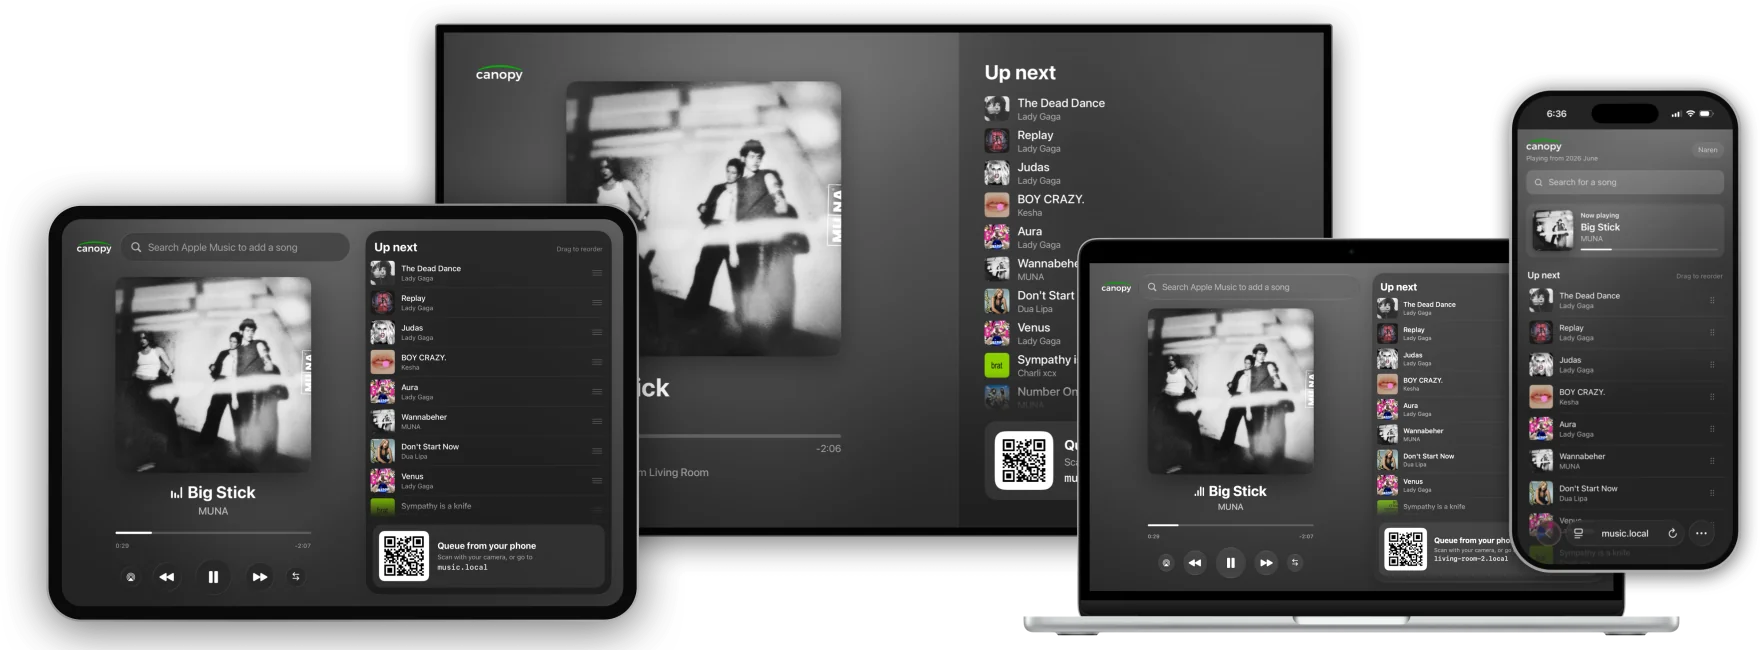
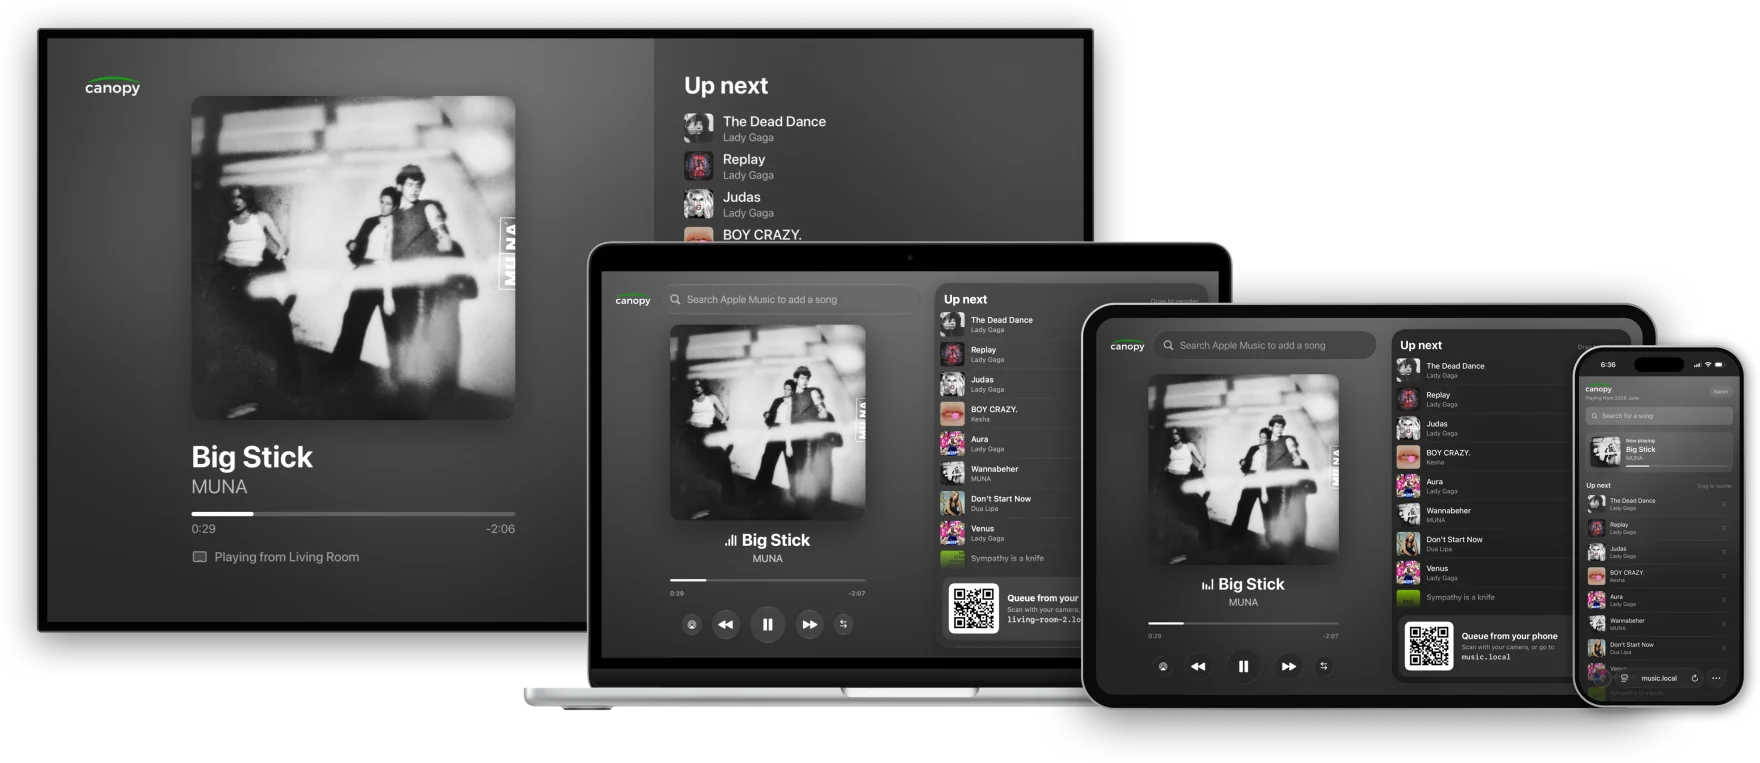
Home page: the cascading devices image (TV, MacBook, iPad, iPhone)

diff --git a/index.html b/index.html
@@ -26,7 +26,7 @@
     <p class="cta-note">Install from the App Store or build it yourself with Xcode and an Apple Developer account. Free for noncommercial use.</p>
   </header>
 
-  <img class="devices" src="devices-1760.webp" srcset="devices-1760.webp 1760w, devices-2400.webp 2400w" sizes="min(1100px, 100vw - 32px)" width="1760" height="650" alt="Canopy Music playing Big Stick by MUNA on an iPad, an Apple TV, a MacBook, and an iPhone, each showing the same Up next list.">
+  <img class="devices" src="devices-1760.webp" srcset="devices-1760.webp 1760w, devices-2400.webp 2400w" sizes="min(1100px, 100vw - 32px)" width="1760" height="763" alt="Canopy Music playing Big Stick by MUNA on an Apple TV, a MacBook, an iPad, and an iPhone, each showing the same Up next list.">
 
   <ul class="points">
     <li>
